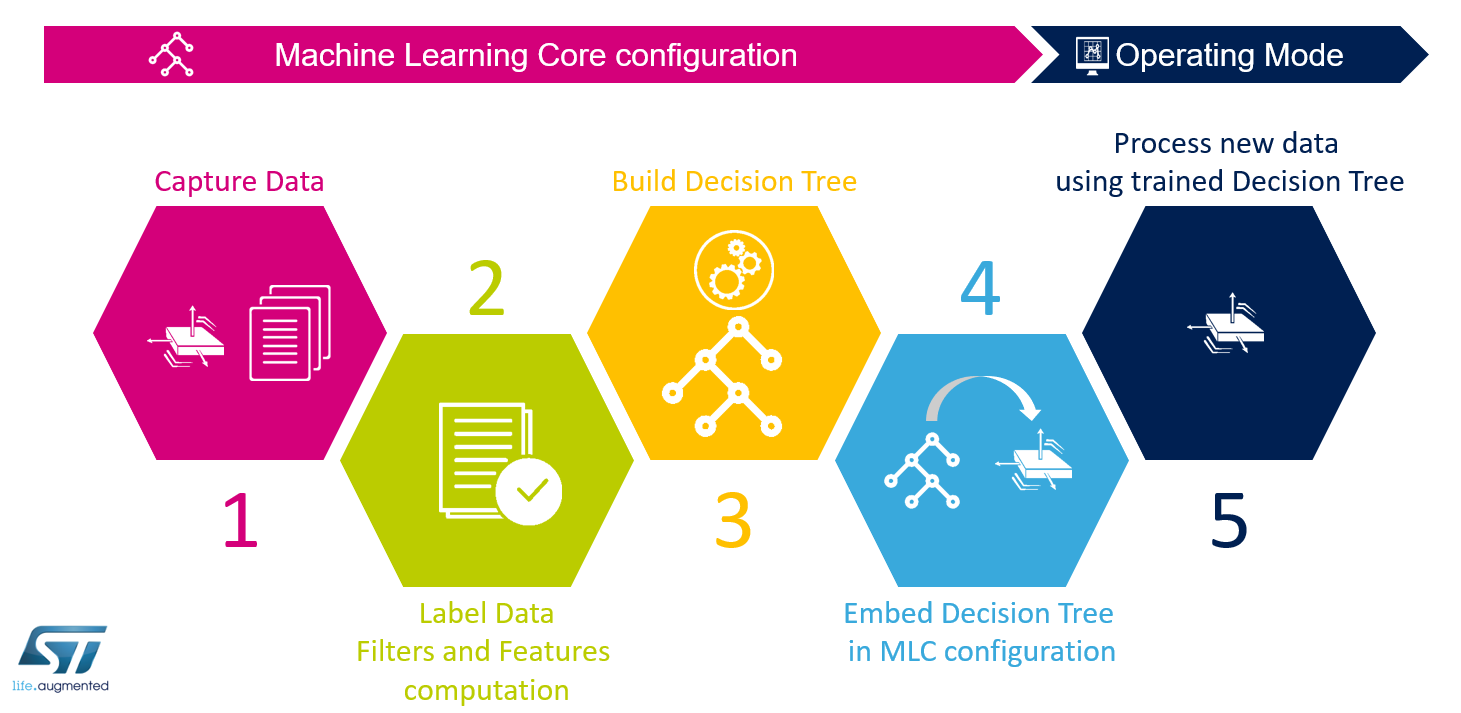
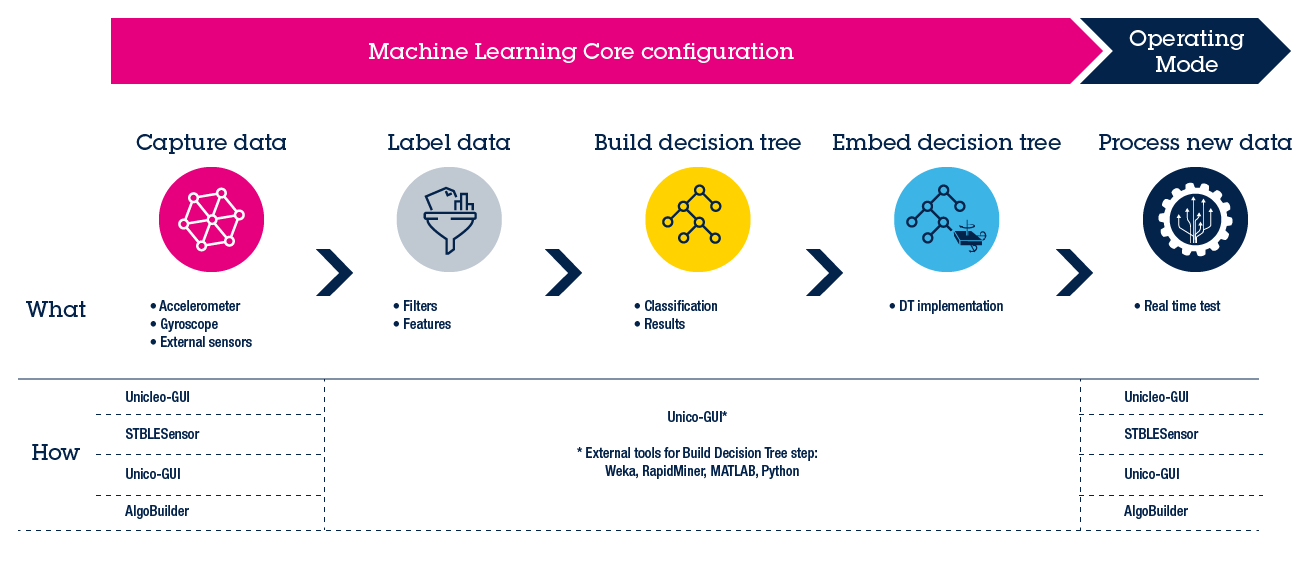
updated configuratione example, adding more details

diff --git a/configuration_example/README.md b/configuration_example/README.md
@@ -1,63 +1,176 @@
-This configuration example shows all the steps of the Machine Learning Core (MLC) configuration, from data logging to the device configuration. The use-case is the LSM6DSOX device, but this example is similarly applicable to other ST devices embedding the MLC feature. For further details on the MLC configuration procedure, please refer to the application notes available at www.st.com
+This ReadMe file describes how to use the **Machine Learning Core (MLC)** configuration in the ST MEMS sensors
+
+**MLC** is a highly configurable and power-efficient hardware logic offered on ST sensors with part number ending with X (e. g. LSM6DSOX) supporting multiple Decision Tree classifiers.
+
+This example explains the following steps:
+
+1. How to capture the data log for each class to be classified
+2. How to label each data log
+3. How to design the decision tree classifier
+4. How to configure the MLC to run the generated decision tree
+5. How to check the decision tree output in real-time when it is running in the MLC
+
+**Software** Tools:
+
+The picture below shows the workflow to implement the five steps above and the different software tools that can be used.
+
+For the example discussed here, the **Unico GUI** software tool will be used.
 
 ![MLC_steps](./MLC_steps.png)
 
+For more details on the software tools:
 
+- [Unico GUI](https://www.st.com/content/st_com/en/products/embedded-software/evaluation-tool-software/unico-gui.html) software tool to work with ProfiMEMS evaluation board (see the next paragraph for more details).
+- [Unicleo GUI](https://www.st.com/content/st_com/en/products/embedded-software/evaluation-tool-software/unicleo-gui.html) software tool to work with [Nucleo](https://www.st.com/content/st_com/en/products/evaluation-tools/product-evaluation-tools/mcu-mpu-eval-tools/stm32-mcu-mpu-eval-tools/stm32-nucleo-boards.html) motherboards coupled with X-Nucleo expansion boards, and in particular the MEMS expansions (the latest is [X-Nucleo-IKS01A3](https://www.st.com/content/st_com/en/products/ecosystems/stm32-open-development-environment/stm32-nucleo-expansion-boards/stm32-ode-sense-hw/x-nucleo-iks01a3.html))
+- [AlgoBuilder GUI](https://www.st.com/content/st_com/en/products/embedded-software/mems-and-sensors-software/inemo-engine-software-libraries/algobuilder.html) software tool to design a custom processing flow and build the firmware for Nucleo boards coupled with the MEMS expansions, or form-factor evaluation boards such as [SensorTile.Box](https://www.st.com/content/st_com/en/products/evaluation-tools/product-evaluation-tools/mems-motion-sensor-eval-boards/steval-mksbox1v1.html)
 
-## 1 - Capturing Data
+**Hardware**: 
 
-LSM6DSOX has been configured with the accelerometer enabled at 26 Hz data rate. 
-Three data logs have been acquired in three different conditions: 
+in this example we will be using the **LSM6DSOX inertial measurement unit (IMU)**, with an accelerometer and a gyroscope sensor (see the next paragraph for more details). However, the same procedure also applies to other sensors with MLC support.
 
-- board face-up (accelerometer Z-axis pointing up) - File *1_Log1.txt* 
-- board face-down (accelerometer Z-axis pointing down) - File *1_Log2.txt* 
-- board shaking - File *1_Log3.txt* 
+For more details on the hardware:
 
-## 2 - Labeling Data and Computing Features
+- ST resource page on [MEMS sensor](  https://www.st.com/mems  )
+- ST resource page on [Explore Machine Learning Core in MEMS sensors]( https://www.st.com/content/st_com/en/campaigns/machine-learning-core.html )
+- Application note [AN5259](  https://www.st.com/resource/en/application_note/dm00563460-lsm6dsox-machine-learning-core-stmicroelectronics.pdf  ) on MLC embedded in [LSM6DSOX](https://www.st.com/content/st_com/en/products/mems-and-sensors/inemo-inertial-modules/lsm6dsox.html) 
 
-In the MLC tool of Unico, the three data logs of step 1 have been labeled respectively as
+# 1. Capture Data Logs
+
+In this example the MLC will be configured to recognize three different classes: 
 
 - *face_up*
 - *face_down* 
 - *shaking* 
 
-Three features have been configured: 
+Each class to be classified by the decision tree must be characterized by one or more data logs.
 
-- mean of the accelerometer Z-axis
+**Hardware** needed:
 
-- mean of the accelerometer norm filtered with a high-pass filter (bandwidth ODR/4)
+- [STEVAL-MKI109V3]( https://www.st.com/content/st_com/en/products/evaluation-tools/product-evaluation-tools/mems-motion-sensor-eval-boards/steval-mki109v3.html ), professional evaluation board for MEMS sensors, referenced as **ProfiMEMS** in ST docs. It is based on the STM32F401 microcontroller and features a DIL24 connector to plug the daughterboard with the sensor under test. Check that the firmware is up to date (version 3.6.36 or later).
+- [STEVAL-MKI197V1](  https://www.st.com/content/st_com/en/products/evaluation-tools/product-evaluation-tools/mems-motion-sensor-eval-boards/steval-mki197v1.html  ), daughterboard with **LSM6DSOX** IMU sensor (referenced as **DIL24 adapter** in the ST docs). It must be plugged into the ProfiMEMS motherboard.
+- Micro USB cable to connect the ProfiMEMS motherboard to the PC
+- **Note**: Even if ProfiMEMS has been used in this example other plaftorms are supported (see [Getting started with ST development kit and GUI](https://www.st.com/content/ccc/resource/sales_and_marketing/presentation/product_presentation/group0/f6/ab/59/ed/d8/d0/4a/47/MLC_tools_and_GUI/files/MLC_tools_and_GUI.pdf/_jcr_content/translations/en.MLC_tools_and_GUI.pdf)).
 
-- variance of the accelerometer norm
+**Software** needed:
 
+- [STSW-MKI109W](  https://www.st.com/content/st_com/en/products/embedded-software/evaluation-tool-software/stsw-mki109w.html  ), referenced as **Unico GUI**, companion software to work with the ProfiMEMS motherboard. This software tool includes the J48 algorithm to design decision trees (version 9.8.1.0 or later).
+- [Weka](  https://waikato.github.io/weka-wiki/downloading_weka/   ) Machine Learning tool to design decision trees (version 3.8.3 or later). 
 
-The MLC is configured at 26 Hz data rate, computing features in windows of 26 samples (1 per second). The computed features are available in the file *2_features.arff*.
+  **Note**: Even if Unico offers the possibility to design the decision tree using a built-in algorithm, in this example Weka has been used.  Other third-party tools can also be used: Python SciKit, Matlab, and RapidMiner.
 
+Procedure to capture data:
 
-## 3 - Building the Decision Tree
+1. Plug the DIL24 LSM6DSOX adapter on the ProfiMEMS motherboard, and connect the motherboard to the PC. 
+2. Run the Unico GUI. **Type** **"OX" in the search field, select LSM6DSOX** and confirm by pressing the corresponding button.
+3. Click on the **Options tab** and configure the **accelerometer:** **2g full scale, 26Hz output data rate**, low-power mode disabled.![1_Unico_Options](./1_Unico_Options.jpg)
+4. Click on the **Start** button on the top bar and click **Plot** to check the data in real-time. Close the Plot window but **do not click the Stop button** otherwise the log will be empty.
+5. Click on the **Load/Save tab**, select the Accelerometer, type the filename for the log; it is very convenient to include the label as part of the filename (example: "1_Log1_FaceUp.txt").![1_Unico_Save](./1_Unico_Save.jpg)
+6. When ready, click **Start** in the Load/Save window to start writing to the log file. When the log is complete, click **Stop** to stop writing and close the log file. The log is a tab-separated-value file which can be opened with any text editor.
 
-Weka has been used to build the decision tree (with the J48 classifier).  
+In this example three logs have been collected
 
-The file *3_weka_classifier_J48_output.txt* contains the complete Weka output, while the file *3_decision_tree.txt* contains the decision tree to be imported in Unico to complete the MLC configuration.
+- **1_Log1_FaceUp.txt** with device standing still, Z axis pointing up.
+- **1_Log2_FaceDown.txt** with device standing still, Z axis pointing down.
+- **1_Log3_Shaking.txt** with device subject to shacking motion.
 
+**Note**: For this simple example, just one data log per class has been acquired. In general, it is suggested to acquire multiple data logs for each class since different people might execute the movements in different ways.
 
-## 4 - Embedding the Decision Tree in MLC configuration
+# 2. Load and Label Data Logs
 
-The MLC results have been configured with the following three values in the MLC0_SRC register (when the corresponding class is detected):
+Procedure to label the data logs:
 
-- 0 = *face_up*
-- 4 = *face_down*
-- 8 = *shaking*
+1. The ProfiMEMS board doesn't need to be plugged to the PC. Unico GUI can work stand-alone in "offline" mode: run the Unico GUI, and uncheck "communication with the motherboard".
+2. **Type "OX" in the search field, select LSM6DSOX** and confirm by pressing the corresponding button.
+3. Click on the **MLC button** on the side bar. Select the **Data Patterns tab** (it should already be selected).
+4. For each class, click on **Browse** to select the corresponding data log files (multiple files can be selected simultaneously in the dialog), type the label for the class, and click **Load**. Repeat for each class.![2_Unico_MLC_DataPatterns](./2_Unico_MLC_DataPatterns.jpg)
+5. When all data logs are loaded, select the **Configuration tab**. For each step, select the desired configuration, then click **Next**.
 
-No meta-classifier has been configured for this simple example. 
+In this example the accelerometer settings are the same as used for data capture (2g, 26Hz). The MLC is configured to run at the same speed as the accelerometer sensor (26Hz), and compute a new set of features every second (window length of 26 samples has been chosen to get a good tradeoff between latency and time necessary to recognize the movements).
 
-The MLC tool in Unico has generated the following configuration (UCF) file: *4_LSM6DSOX_configuration.ucf*
+Settings selected in the Configuration tab:
 
-## 5 - Processing new data using the trained Decision tree
+1. LSM6DSOX sensor
+2. MLC running at 26Hz
+3. Accelerometer only
+4. Accelerometer configured for 2g full scale and 26Hz data rate
+5. One decision tree only
+6. Window length of 26 samples
+7. High-pass filter (HP) on accelerometer vector norm (V), this is a difference filter (DIFF)
+8. Select the following features and click Next when done:
+   - **Mean** for Z-axis, **ACC_Z**, useful to discriminate FaceUp and FaceDown
+   - **Mean** for filtered norm, **DIFF on ACC V**, useful to discriminate Shaking
+   - **Variance** for norm, **ACC_V**, useful to discriminate Shaking![2_Unico_MLC_Features](./2_Unico_MLC_Features.jpg)
+9. Click on **Browse** to select or type the name of the ARFF file where computed features will be  saved. Click Next to save the file. For this example, features have been saved in **2_Features.arff**. 
+10. Insert the numeric code associated with each label. This is the numeric output of the decision tree when it is run on the MLC (see the note below for details). Then click Next. 
+    - FaceUp = 0
+    - FaceDown = 4
+    - Shaking = 8
 
-The UCF file generated in the previous step can be used to configure the LSM6DSOX to work with the trained decision tree.
+**ARFF** files are text files: the first few lines describe the attributes (extracted features), the rest of the file has one line for every window (data segment) of every log file processed by Unico. Each line is made of the listed attributes (a number, or numeric class) and the corresponding label (a string, or nominal class). This file is the input for the algorithm which designs the decision tree classifier (see next paragraph).
+
+**Note**: one can create groups of at most 4 labels and then use the meta-classifier functionality of the MLC core. The first group uses numeric codes from 0 to 3, the second group uses codes from 4 to 7, the third group uses codes from 8 to 11, and so on. In this example, each label is in a different group, this is why the numeric code is a multiple of 4.
+
+# 3. Design the Decision Tree Classifier
+
+Even if Unico offers the possibility to design the decision tree using a built-in algorithm, in this example Weka has been used.  Other third-party tools can also be used: Python SciKit, Matlab, and RapidMiner.
+
+Procedure to design the decision tree classifier with Weka
+
+1. Run Weka and click the **Explorer** button
+2. Select the **Preprocess tab** (it should already be selected) and click on **Open File**. Browse to select and load the **2_Features.arff** file generated in the previous paragraph
+3. Select the **Classify tab**, click on **Choose** to select the design algorithm. Expand the **trees** item and select the **J48 algorithm**. You can also tune validation and other options
+4. Select the output of the classifier (the label, referenced as "nominal class" should already be selected) and click on **Start**
+5. When the design is completed, the generated decision tree and the corresponding performance report is printed on the console.  For this example, the whole console output is saved in **3_Weka_Classifier_J48.txt**
+6. Copy the generated decision tree and save it into a text file. This file will be fed into Unico GUI to generate the corresponding MLC configuration file. For this example, the decision tree is saved in **3_Decision_Tree.txt**. The corresponding section is highlight in the following picture.![3_Weka](./3_Weka.jpg)
+
+For more details on the decision tree generation using third party tools, check the application note [AN5259](  https://www.st.com/resource/en/application_note/dm00563460-lsm6dsox-machine-learning-core-stmicroelectronics.pdf  ):
+
+- Appendix A for Weka
+- Appendix B for RapidMiner
+- Appendix C for Matlab
+- Appendix D for Python SciKit
+
+# 4. Generate the MLC configuration file
+
+One can click on Generate to design the decision tree classifier using the built-in algorithm in Unico. However, in this example Weka has been used.
+
+Procedure to load the decision tree and generate the configuration file:
+
+1. Click on **Browse** to select the file corresponding to the decision tree. For this example, this is the **3_Decision_Tree.txt** file generated in the previous paragraph. Then click **Next**.![4_Unico_MLC_Load_DecisionTree](./4_Unico_MLC_Load_DecisionTree.jpg)
+2. Insert the value of the end counter for the meta-classifier and click **Next**. The end counter is the minimum number of consecutive outputs from the same group before the final output is updated. For this example, it is set to 0 so the final output is immediately updated.
+   - End counter for FaceUp = 0
+   - End counter for FaceDown = 0
+   - End counter for Shaking = 0![4_Unico_MLC_Save_Configuration](./4_Unico_MLC_Save_Configuration.jpg)
+3. Click on **Browse** to select or type the name of the UCF file where the MLC configuration will be saved. Click **Next** to save the file. In this example, the configuration is saved in **4_LSM6DSOX_configuration.ucf**
+4. If the ProfiMEMS board with the LSM6DSOX DIL24 adapter is connected, and Unico is not working in "offline" mode, it will be possible to immediately program this configuration into the sensor: just select the checkbox "Load configuration..." in the dialog window.![4_Unico_MLC_Write_Configuration](./4_Unico_MLC_Write_Configuration.jpg)
+
+**UCF** stands for Unico Configuration File. It is a text file with a sequence of register addresses and corresponding values. It contains the full sensor configuration, including of course the MLC configuration. 
+
+The UCF file can be used as-is by several software tools provided by ST: Unico GUI, Unicleo GUI, AlgoBuilder GUI.
+
+**UCF files can also be converted to C source code** and saved as a header *.h* files to be conveniently included in C projects: click on the Options tab, select Browse and load the UCF file, then click on Generate C code.
+
+An example on how to use the generated *.h* file in a standard C driver is available in the [STMems_Standard_C_drivers repository]( https://github.com/STMicroelectronics/STMems_Standard_C_drivers/blob/master/lsm6dsox_STdC/example/lsm6dsox_mlc.c ).
+
+# 5. Use the MLC configuration file
+
+Procedure to program the UCF configuration file in LSM6DSOX:
+
+1. Plug the DIL24 adapter on the ProfiMEMS motherboard, and connect the motherboard to the PC. 
+2. Run the Unico GUI. **Type "OX" in the search field, select LSM6DSOX** and confirm by pressing the corresponding button.
+3. Click on the **Load/Save tab**, click on **Load**, browse and select the UCF file. In this example, this is **4_LSM6DSOX_configuration.ucf**. The MLC is now configured. In this example.![5_Unico_Load_Configuration](./5_Unico_Load_Configuration.jpg)
+4. Click on **Start** button on the top bar. The MLC is now up and running.
+5. Click  on **Data** in the side bar and look at the accelerometer data and decision tree output.![5_Unico_Data](./5_Unico_Data.jpg) 
+
+Verify that the numeric output of the decision tree does correspond to what is happening to the device. Put the device upside-down. Shake the device. 
+
+The decision tree result is updated at every window. In this example the window is 26 samples long, the data rate is 26Hz, hence the output is updated every second.
 
 ------
 
 **More Information: [http://www.st.com](http://st.com/MEMS)**
 
-**Copyright © 2019 STMicroelectronics**
+**Copyright © 2020 STMicroelectronics**
+
+
+
